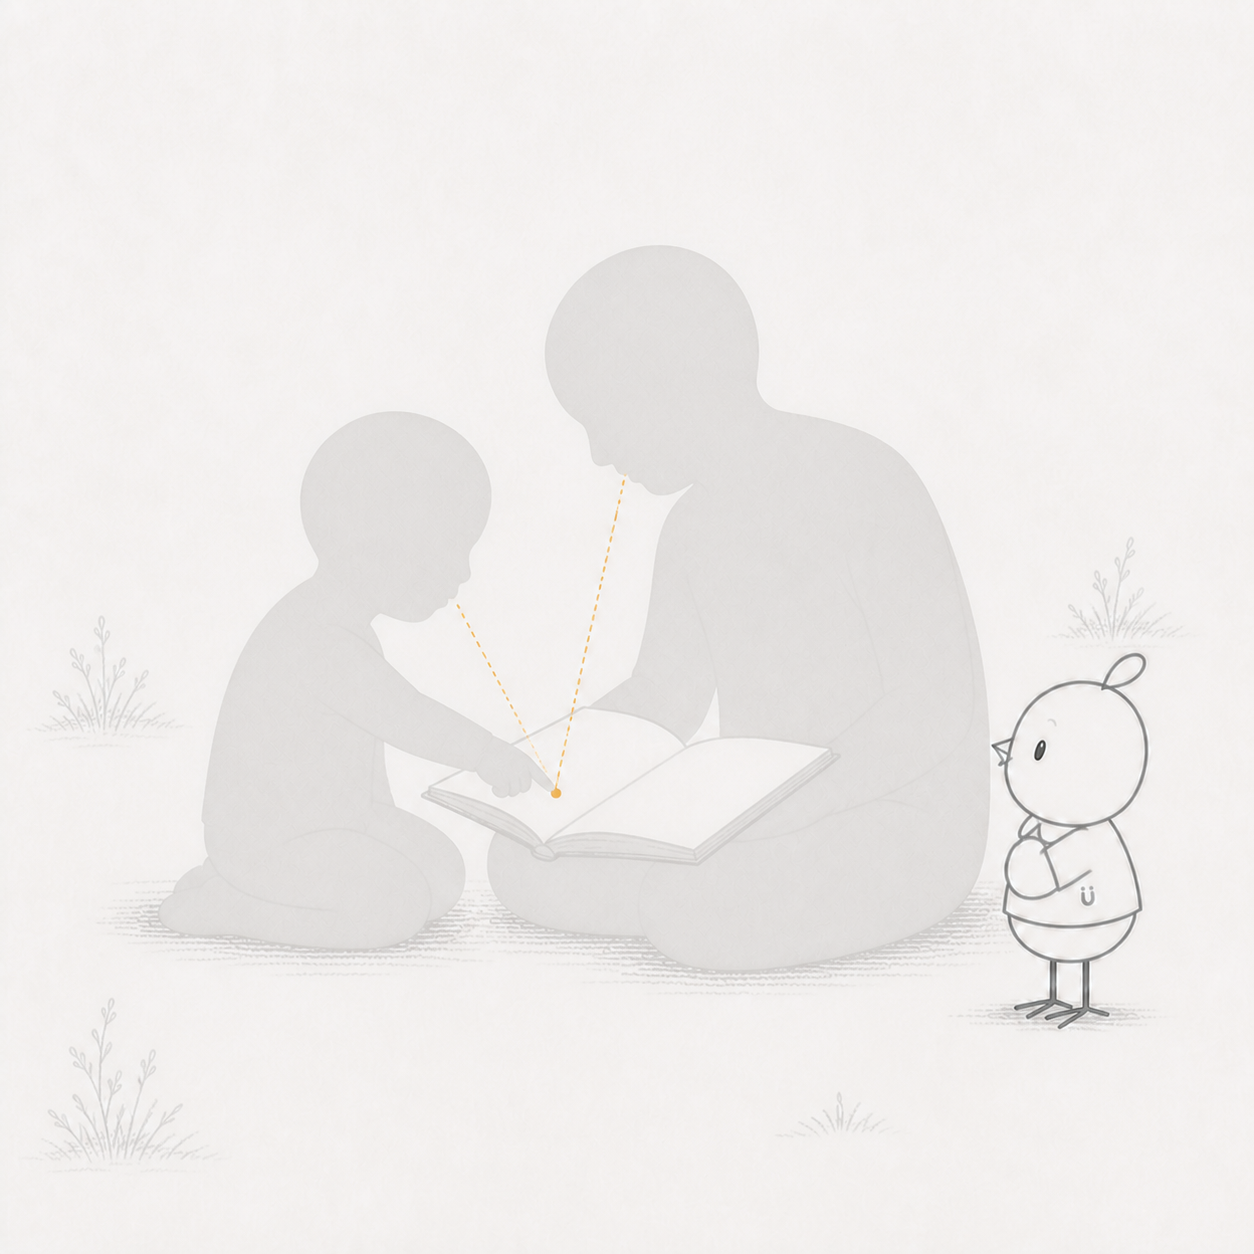
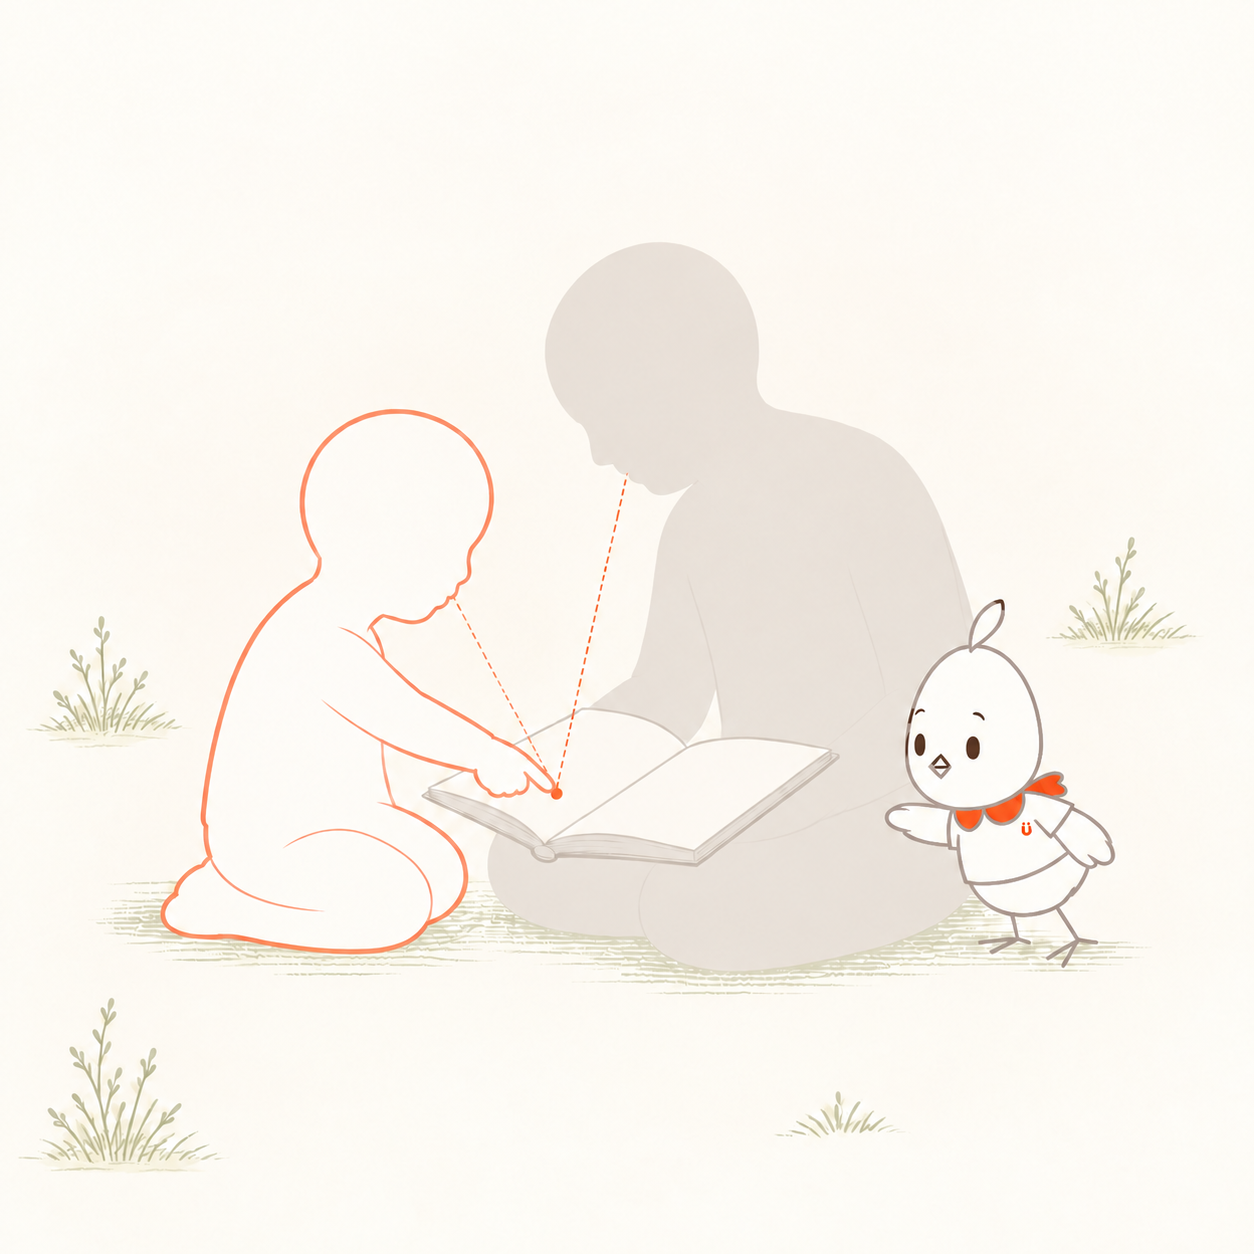
Update Mimo scene studies and illustration checks

diff --git a/planning/mimo-pose-angle-expression-audit.md b/planning/mimo-pose-angle-expression-audit.md
@@ -1,0 +1,197 @@
+# Mimo ポーズ・角度・表情 改善記録
+
+## 目的
+
+Mimo（小鳥）の固定造形を守りながら、既存シーンに不足しているポーズ・角度・表情の幅を増やす。子どもが主役、Mimoはそばで反応するバディという画面上の役割は変えない。
+
+## 基準資料
+
+- シーン一覧: `planning/participatory-growth-frames/stage-illustration-inventory-review.html`
+- 固定三方向図: `planning/style-studies/outputs/groups/50-main-three-small-mascot-feedback-constraints-turnaround-v2-luke-face-lock.png`
+
+## 進捗
+
+| STEP | 内容 | 状態 |
+| --- | --- | --- |
+| 1 | 変更しない基本造形を固定 | 完了（OK） |
+| 2 | 白黒8ポーズ比較シート | 初稿作成済み・要確認 |
+| 3 | 基本5表情シート | 初稿作成済み・要確認 |
+| 4 | 既存6シーンで試験適用 | 前半3場面の色・線階層試作を作成・要確認 |
+| 5 | 色・小物・線階層を戻して全体展開 | 未着手 |
+
+## STEP 1｜固定造形（OK）
+
+以下はポーズや角度が変わっても変更しない。
+
+- 縦長の卵型の頭
+- 小さな胴体と、頭が主役の頭身
+- 頭頂の葉のような羽根は1枚
+- 翼は短く丸い。人間の腕・手・指にはしない
+- 細い鳥脚と三つ又の足先
+- 小さな菱形のくちばし
+- Tシャツ、客室乗務員風の可愛い丸襟型スカーフ、公式Uマーク
+- スカーフ正面は、顎下で中央に合わさる幅広く柔らかな丸い涙形／花びら形2枚とする。服の襟より厚みと面積を持たせる
+- 首を一周する細い帯、本人から見て右側の小さな結び目、横後方へ出る短い折り畳み状の尖った端までを一つの小物として構成する
+- スカーフは独立してOrangeで塗れる閉じた形にする。丸玉の連続、蝶ネクタイ、長い尾、バンダナ状の前垂れにはしない
+- 四人の中で最小の身長
+
+### 角度ごとの顔ルール
+
+- 5方向正本: `planning/style-studies/outputs/characters/kotori/14-kotori-five-angle-lock.png`
+- 正面: 両目と正面菱形のくちばし。
+- 斜め前: 両目を見せてもよいが、奥の目を少し細くし、くちばしを手前側へ寄せる。
+- 真横: 目は必ず1つ。奥の目・奥の眉は描かず、くちばしは小さな三角の側面にする。
+- 斜め後ろ: 原則として目なし。顔を十分振り返った場合だけ、手前の目の端またはくちばし先端を最小限見せる。両目は禁止。
+- 真後ろ: 目・眉・くちばしを描かない。
+- Uは画面から見て胸の右上へ固定する。胸面が見える正面・斜め前だけ表示し、横・斜め後ろ・後ろでは無理に見せない。
+
+## 現状監査
+
+### 主な課題
+
+- 画面の端で、横向きに近い姿勢・翼を下ろした立ち姿・点目の無表情が繰り返される。
+- 正面、横、浅い斜めはあるが、後ろ斜め、明確な見上げ・見下ろし、身体と顔の向きが異なる姿勢が少ない。
+- 動きのある場面ほど翼が人間の腕や手に近づき、頭身、服、脚の形も基準から離れやすい。
+- 表情は通常顔と軽い開口に偏り、傾聴・発見・小さな喜び・心配の差が弱い。
+
+### 似た立ち姿が続く候補
+
+- `mimo-frame-aac-one-word.png`
+- `mimo-frame-choice-response.png`
+- `mimo-frame-experience-feeling.png`
+- `mimo-frame-one-word-more.png`
+- `mimo-frame-parent-child-pretend-meal.png`
+- `mimo-frame-pretend-shop.png`
+- `mimo-frame-routine-shoe-message.png`
+- `mimo-frame-shared-reading.png`
+- `mimo-frame-social-referencing.png`
+- `mimo-frame-three-photo-story.png`
+- `mimo-frame-turn-taking-cards.png`
+- `mimo-frame-two-picture-schedule.png`
+
+### 発想は良いが造形を戻したい候補
+
+- `mimo-frame-hidden-find.png`: 覗き込みは良い。頭・胴・服を固定造形へ戻す。
+- `mimo-frame-freeze-notice.png`: 片足の動きは良い。頭の大きさ、翼の長さ、スカーフを修正する。
+- `mimo-frame-doctor-pretend.png`: 座り角度は有効。大きく丸い別個体に見える点を修正する。
+- `mimo-frame-pretend-feeding.png`: 低い姿勢は有効。翼・脚・胴・尾の変形を抑える。
+
+## STEP 2｜白黒8ポーズ比較シート
+
+色、背景、子ども、矢印、道具、強い表情は入れず、造形を保ったまま姿勢だけを比較する。
+
+- 最新稿: `planning/style-studies/outputs/characters/kotori/11-kotori-monochrome-eight-pose-study.png`
+- 判定: ポーズ差と個体の連続性は確認できる。両翼を開く案の翼先が細かすぎる点、低く待つ案の脚線が複雑な点は次稿候補。
+
+1. 少し身体を傾けて聴く
+2. 子どもと同じ方向を見る想定の共有視線
+3. 手元や物へ頭と身体を曲げて観察する
+4. 片翼を少し上げて応答する
+5. 両翼を小さく開いて喜ぶ
+6. 身体を低くして待つ
+7. 片足へ重心を移し、動きをまねる
+8. 後ろ斜めから、子どもと同じ方向を見る
+
+### STEP 2の合格条件
+
+- 8体すべて同じ個体に見える。
+- 頭の縦長卵型、頭身、胴の幅が大きく変わらない。
+- 翼は短い羽のままで、手や指を作らない。
+- どの角度でも同じ客室乗務員風スカーフを保ち、単なる服の襟、丸玉、蝶ネクタイ、長い三角スカーフへ変形させない。
+- 立位では細い脚、低い姿勢でも鳥らしい足先を保つ。
+- 顔より、首の傾き・胴の軸・翼・足の重心で動きを作る。
+- 8案がシルエットだけでも判別できる。
+- 横・後ろ姿勢は5方向正本の目数と顔パーツ表示範囲を守る。
+
+## STEP 3｜予定する5表情
+
+- 最新稿: `planning/style-studies/outputs/characters/kotori/12-kotori-monochrome-five-expression-study.png`
+- 判定: 通常と発見が近かったため、発見は黒目を約20〜25%大きくし、菱形のくちばしを上下へ明確に開き、頭頂羽根を立てた形へ再更新済み。驚き線や眉を使わず、小さな発見として通常との差を出す。通常・傾聴・発見・小さな喜びは使用可能。心配・寄り添いは眉と目の落ち込みがやや強いため、採用前に強度を確認する。
+
+1. 通常
+2. 傾聴
+3. 発見
+4. 小さな喜び
+5. 心配・寄り添い
+
+怒りや大泣きなど強い感情は、物語上必要な場面が決まるまで基本セットに入れない。
+
+## STEP 4｜先行して直す6シーン
+
+STEP 4は白黒ポーズを置くだけでは完了としない。各試作は `participatory-growth-scene-illustration-guidelines.md` の画面階層まで適用して比較する。
+
+### STEP 4の必須仕上げ
+
+- 子どもは白抜き＋アプリOrange `#FF511B`を約55%で表示した主線とし、最初に動作が見えるようにする。白背景上の見た目は約`#FF9E7D`、Warm White上は約`#FA997B`を目安とする。
+- Mimoの身体はWhite～Warm White。外形・衣服は`#8D8380`由来の淡いウォームグレー、顔だけ少し濃くする。
+- Mimoの丸襟型スカーフは`#FF511B`を原則100%で小面積着色し、子どもの淡いOrange輪郭と明確に分ける。
+- 胸のUは画像生成で近似せず、`withuai/assets/images/logo/logo.svg`から取り出した公式形状を`#FF511B`で後工程合成する。
+- 保護者はLight Grey～淡いグレージュで、子どもより弱くする。
+- 道具と背景は動物以下のコントラストにし、Bレベル（約50%）のフラット化を適用する。
+- 元画像にない草、木、家具、装飾は追加しない。
+- 色と線を入れた後も、視線順が「子どもの動作→関係を示す物／軌跡→Mimo→保護者→環境」になることを確認する。
+
+### うさぎ完成場面から採用する見た目の基準
+
+- 子どものOrangeは`#FF511B`を強い不透明線として置かず、約55%で表示する。うさぎ既存場面には約`#EDA379`～`#FF793B`の揺れがあるため、個々の生成色をスポイトせず、この数値を正本とする。
+- 動物外形は黒ではなく、うさぎと同程度の淡いブラウン～グレージュにする。
+- 顔パーツだけ外形より一段濃い、柔らかなDark Brownにする。
+- 保護者、家具、布、本などは淡いベージュ～Light Greyに抑える。
+- 背景はWarm Whiteとごく薄いピーチの気配に留める。
+- 色調を合わせても、Mimoの頭形・目・くちばし位置はうさぎ場面から流用せず、MimoのSTEP 2/3を正本とする。
+
+前半3場面の試作:
+
+`planning/style-studies/outputs/characters/kotori/13-kotori-scene-pilot-step4-a.png`
+
+公式UはSVGから切り出し、胸が見える「hidden-find」「freeze-notice」に後工程合成済み。「shared-reading」は姿勢で胸が隠れるため、無理に表示しない。
+
+- `mimo-frame-hidden-find.png`
+- `mimo-frame-freeze-notice.png`
+- `mimo-frame-shared-reading.png`
+- `mimo-frame-social-referencing.png`
+- `mimo-frame-pretend-shop.png`
+- `mimo-frame-aac-one-word.png`
+
+### 個別シーン更新状況
+
+- [x] `mimo-frame-hidden-find.png`: 縦長卵形の頭、斜め前の顔、Tシャツの袖・裾、短い翼、客室乗務員風スカーフ、公式Uの胸右上配置へ更新
+- [x] `mimo-frame-freeze-notice.png`: 真横の頭は目1つ・三角のくちばし、胴体は胸が見える軽い正面3/4、片足で子どもの動きを写すポーズへ更新。子どもは白抜き＋淡いOrangeの外周主体とし、髪・衣服・靴・指の不要線を削除。丸い襟型スカーフと公式Uを維持
+- [x] `mimo-frame-shared-reading.png`: 色階層とMimo造形を維持し、子どもの手だけを局所修正。腕の重なり線と膝線は残し、指先をGen基準のミトン形へ簡略化して指差し方向を外周で表現
+
+#### `mimo-frame-freeze-notice.png` 子どもの線密度チェック
+
+- [x] 白抜き＋見た目`#FA997B`近似の淡いOrange輪郭
+- [x] 髪の束、顔、服の縫い目、袖口、裾、短パン境界、靴ひもを省略
+- [x] 手はミトン形、足は丸い単純形とし、指・靴の分割線なし
+- [x] 外周、曲げた腕、上げた膝、支持脚だけで片足立ちが読める
+- [x] Mimo、公式U、中央記号、右側の動作線は変更していない
+
+#### `mimo-frame-shared-reading.png` 上書きチェック
+
+- [x] 保全: 親子・本・視線線・背景を更新前画像から使用
+- [x] 色階層: 子どもは白抜き＋見た目`#FA997B`近似の淡いOrange輪郭、保護者はより弱い淡いグレージュ、Mimo外形は淡いウォームグレー、顔だけ一段濃い
+- [x] 背景: 完成済みGen場面と並べ、Warm White～Off White、低彩度、Bレベルの質感へ調整
+- [x] 子どもの線密度: 外周、腕の重なり、膝を維持し、指先の複数分割線を削除。ミトン形の外周だけで指差しが読めることを確認
+- [x] 頭部／身体: 固定角度図の縦長卵形、冠羽1枚、小型胴、短い翼、鳥脚、Tシャツ
+- [x] 角度: 頭・胴とも斜め前、2眼、遠い目はわずかに細い
+- [x] 演技: 本への前傾、伸ばす翼、踏み出す脚の3要素
+- [x] 関係性: 顔・身体軸・翼が共有物の本へ向く
+- [x] 小物: `#FF511B`の丸い襟型スカーフ
+- [x] U: 公式部品を画面から見て右胸上部へ後工程合成
+- [x] 主従: 子どもと本を主役とし、Mimoは右側の伴走位置
+- [ ] `mimo-frame-social-referencing.png`
+- [ ] `mimo-frame-pretend-shop.png`
+- [ ] `mimo-frame-aac-one-word.png`
+
+## 優先TODO
+
+- [x] STEP 1: 固定造形を確認
+- [x] STEP 2: 白黒8ポーズシート初稿を作成
+- [ ] STEP 2: 初稿を確認し、採用ポーズと再調整箇所を決める
+- [x] STEP 3: 5表情シート初稿を作成
+- [ ] STEP 3: 表情の強度を確認し、採用または微調整する
+- [ ] STEP 4: 6シーンで角度・ポーズを試験適用
+- [ ] 動きのある4シーンの造形崩れを修正
+- [ ] 残りの反復的な立ち姿を順次置換
+- [ ] 最後に身体色あり／なしを同一構図で比較
